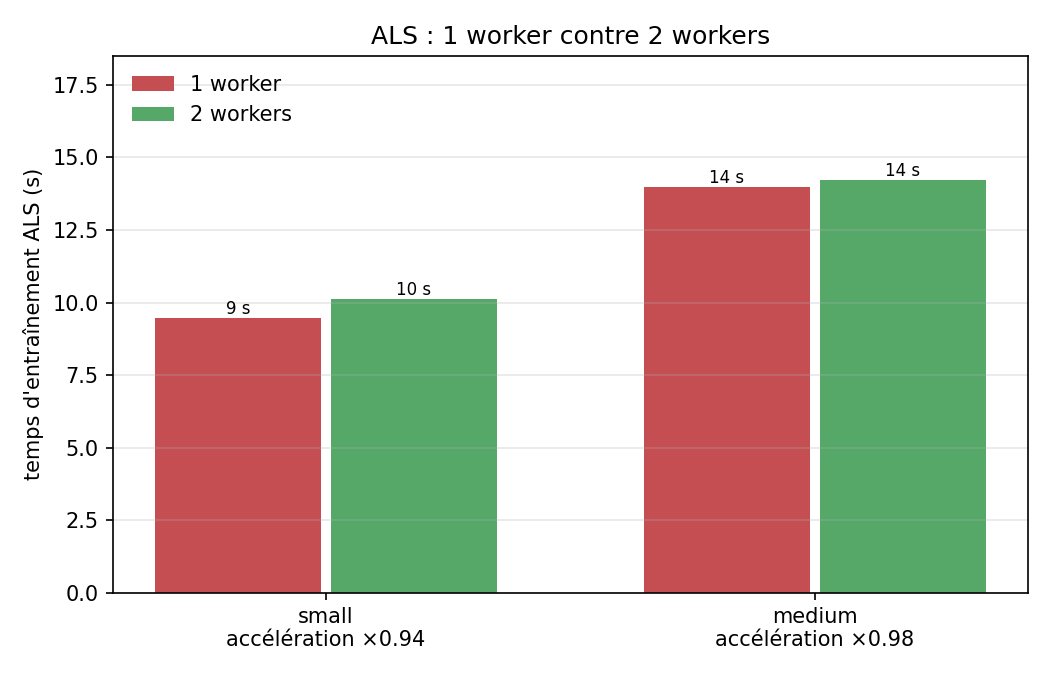
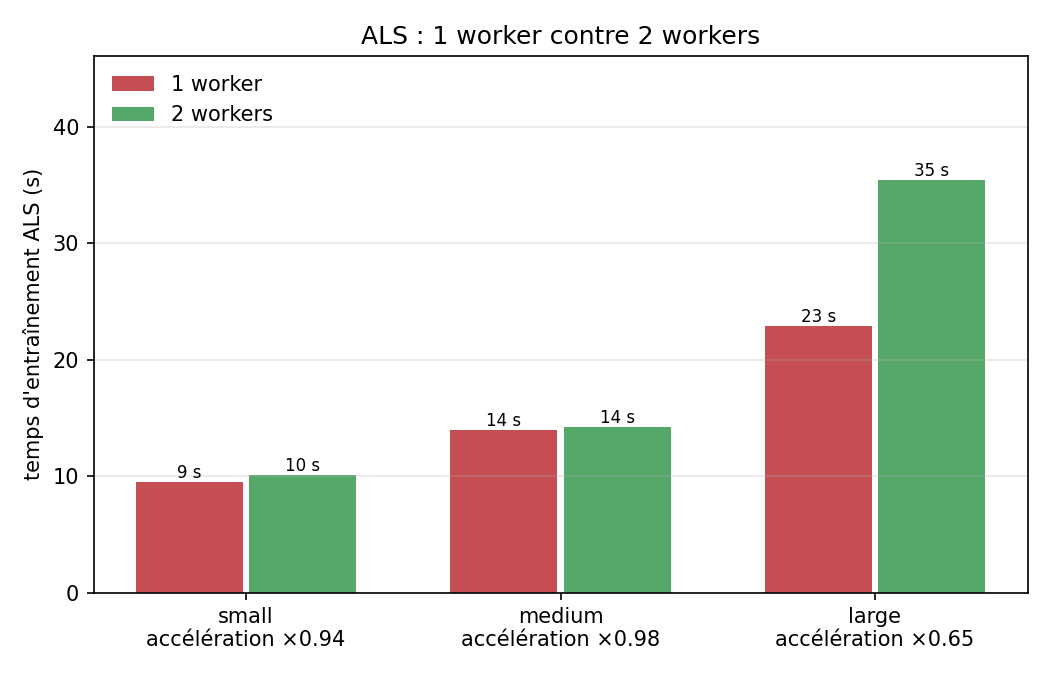
Phase 8 : benchmark large (5 M de notes)

diff --git a/docs/benchmark_resultats.md b/docs/benchmark_resultats.md
@@ -8,28 +8,29 @@ Toutes les valeurs viennent des mesures de `bench/run.sh` ; "-" = non mesuré ou
 |---|---|---|---|
 | small | 177 886 | 100 386 | 6.0 |
 | medium | 1 776 312 | 1 003 312 | 62.9 |
+| large | 8 874 697 | 5 016 697 | 325.6 |
 
 ## 2. Temps d'exécution par étape (secondes)
 
-| Étape | small | medium |
-|---|---|---|
-| Chargement des CSV dans HDFS | 44.6 | 45.3 |
-| Pig 01 : clean_ratings | 561.8 | 576.8 |
-| Pig 02 : clean_reference | 2 248.3 | 2 251.1 |
-| Pig 03 : clean_logs_events | 1 132.8 | 22 674.3 |
-| Pig 04 : transform | 1 980.3 | 1 971.7 |
-| **Pig : total (4 scripts)** | 5 923.2 | 27 473.9 |
-| Hive 01 : tables_csv | 19.8 | 16.3 |
-| Hive 02 : tables_orc_parquet | 98.9 | 72.5 |
-| Hive 03 : features_ml | 54.6 | 62.8 |
-| **Hive : total (3 scripts)** | 173.3 | 151.6 |
+| Étape | small | medium | large |
+|---|---|---|---|
+| Chargement des CSV dans HDFS | 44.6 | 45.3 | 90.9 |
+| Pig 01 : clean_ratings | 561.8 | 576.8 | 626.9 |
+| Pig 02 : clean_reference | 2 248.3 | 2 251.1 | 2 255.9 |
+| Pig 03 : clean_logs_events | 1 132.8 | 22 674.3 | 1 161.2 |
+| Pig 04 : transform | 1 980.3 | 1 971.7 | 2 038.2 |
+| **Pig : total (4 scripts)** | 5 923.2 | 27 473.9 | 6 082.2 |
+| Hive 01 : tables_csv | 19.8 | 16.3 | 8.9 |
+| Hive 02 : tables_orc_parquet | 98.9 | 72.5 | 115.5 |
+| Hive 03 : features_ml | 54.6 | 62.8 | 76.0 |
+| **Hive : total (3 scripts)** | 173.3 | 151.6 | 200.4 |
 
 ### Débit et croissance
 
-| Indicateur | small | medium |
-|---|---|---|
-| Pig : lignes traitées par seconde | 30 | 65 |
-| Hive : lignes traitées par seconde | 1 026 | 11 717 |
+| Indicateur | small | medium | large |
+|---|---|---|---|
+| Pig : lignes traitées par seconde | 30 | 65 | 1 459 |
+| Hive : lignes traitées par seconde | 1 026 | 11 717 | 44 285 |
 
 Croissance entre jeux consécutifs (volume ×V, temps ×T ; T < V signifie que le temps fixe de démarrage des jobs pèse moins quand le volume augmente) :
 
@@ -37,6 +38,8 @@ Croissance entre jeux consécutifs (volume ×V, temps ×T ; T < V signifie que l
 |---|---|---|---|
 | small → medium | Pig | ×10.0 | ×4.6 |
 | small → medium | Hive | ×10.0 | ×0.9 |
+| medium → large | Pig | ×5.0 | ×0.2 |
+| medium → large | Hive | ×5.0 | ×1.3 |
 
 ## 3. Formats de stockage : CSV, ORC, Parquet
 
@@ -46,6 +49,7 @@ Taille sur disque de la table `ratings` (une copie dans HDFS) :
 |---|---|---|---|---|---|
 | small | 3.00 | 0.60 | 0.99 | ×5.0 | ×3.0 |
 | medium | 31.75 | 6.24 | 9.02 | ×5.1 | ×3.5 |
+| large | 164.07 | 32.16 | 45.14 | ×5.1 | ×3.6 |
 
 Temps de requête Hive sur `ratings` (moyenne de plusieurs exécutions, durée de connexion beeline retirée) :
 
@@ -61,6 +65,11 @@ Temps de requête Hive sur `ratings` (moyenne de plusieurs exécutions, durée d
 | medium | parquet | 4.2 | 3.1 |
 | medium | ORC, filtre sur la partition (année) | 1.2 | - |
 | medium | ORC, même filtre sans la partition | 1.8 | - |
+| large | csv | 4.9 | 6.3 |
+| large | orc | 2.9 | 2.2 |
+| large | parquet | 3.1 | 3.7 |
+| large | ORC, filtre sur la partition (année) | 1.5 | - |
+| large | ORC, même filtre sans la partition | 2.9 | - |
 
 ## 4. Spark ALS : 1 worker contre 2 workers
 
@@ -70,6 +79,7 @@ Même demande à chaque exécution (4 cœurs demandés, 2 par exécuteur, 1 Go c
 |---|---|---|---|---|---|---|---|---|
 | small | 79 334 | 9.5 | 10.1 | ×0.94 | 47 % | 0.6615 | 0.6615 | 1 / 2 |
 | medium | 794 971 | 14.0 | 14.2 | ×0.98 | 49 % | 0.6533 | 0.6533 | 1 / 2 |
+| large | 3 973 911 | 22.9 | 35.5 | ×0.65 | 32 % | 0.6439 | 0.6439 | 1 / 2 |
 
 Lecture ORC + mise en cache, et génération du top-5 de tous les utilisateurs :
 
@@ -77,6 +87,7 @@ Lecture ORC + mise en cache, et génération du top-5 de tous les utilisateurs :
 |---|---|---|---|---|
 | small | 21.7 | 19.8 | 6.9 | 12.8 |
 | medium | 18.4 | 23.4 | 10.8 | 13.1 |
+| large | 18.9 | 21.9 | - | - |
 
 ## 5. Cluster ou une seule machine ? Pig contre pandas
 
@@ -86,18 +97,24 @@ Même nettoyage et mêmes transformations que les scripts Pig 01 à 04, avec pan
 |---|---|---|---|---|---|
 | small | 1.3 | 5 923.2 | ×4592 | 152 | identiques |
 | medium | 9.5 | 27 473.9 | ×2886 | 591 | identiques |
+| large | 42.9 | 6 082.2 | ×142 | 2 504 | identiques |
 
 ## 6. Lecture des résultats
 
 - **Pig, small → medium** : le volume est multiplié par 10.0, le temps par 4.6. Le temps croît moins vite que le volume : le coût fixe de démarrage des jobs MapReduce domine encore.
 - **Hive, small → medium** : volume ×10.0, temps ×0.9.
+- **Pig, medium → large** : le volume est multiplié par 5.0, le temps par 0.2. Le temps croît moins vite que le volume : le coût fixe de démarrage des jobs MapReduce domine encore.
+- **Hive, medium → large** : volume ×5.0, temps ×1.3.
 - **small** : pandas traite le même nettoyage 4592 fois plus vite que Pig (1.3 s contre 5923 s). À ce volume une seule machine suffit : le cluster n'apporte pas de gain de vitesse.
 - **ALS, small** : 2 workers donnent une accélération de ×0.94 (efficacité 47 %). Le gain reste limité : les 2 workers partagent les mêmes CPU et le même disque, et les échanges entre exécuteurs coûtent du temps.
 - **Stockage, small** : ORC occupe 5.0 fois moins de place que le CSV, Parquet 3.0 fois moins.
 - **medium** : pandas traite le même nettoyage 2886 fois plus vite que Pig (9.5 s contre 27474 s). À ce volume une seule machine suffit : le cluster n'apporte pas de gain de vitesse.
 - **ALS, medium** : 2 workers donnent une accélération de ×0.98 (efficacité 49 %). Le gain reste limité : les 2 workers partagent les mêmes CPU et le même disque, et les échanges entre exécuteurs coûtent du temps.
 - **Stockage, medium** : ORC occupe 5.1 fois moins de place que le CSV, Parquet 3.5 fois moins.
-- **Limite d'une seule machine (extrapolation linéaire)** : pandas utilise 591 Mo pour 1.0 M de notes ; en extrapolant, 70 % des 8 Go de ce PC seraient atteints vers 12 millions de notes. C'est au-delà de ce seuil, ou quand les données ne tiennent plus sur une machine, que Pig, Hive et Spark deviennent nécessaires. Ordre de grandeur, pas une mesure.
+- **large** : pandas traite le même nettoyage 142 fois plus vite que Pig (42.9 s contre 6082 s). À ce volume une seule machine suffit : le cluster n'apporte pas de gain de vitesse.
+- **ALS, large** : 2 workers donnent une accélération de ×0.65 (efficacité 32 %). Le gain reste limité : les 2 workers partagent les mêmes CPU et le même disque, et les échanges entre exécuteurs coûtent du temps.
+- **Stockage, large** : ORC occupe 5.1 fois moins de place que le CSV, Parquet 3.6 fois moins.
+- **Limite d'une seule machine (extrapolation linéaire)** : pandas utilise 2504 Mo pour 5.0 M de notes ; en extrapolant, 70 % des 8 Go de ce PC seraient atteints vers 12 millions de notes. C'est au-delà de ce seuil, ou quand les données ne tiennent plus sur une machine, que Pig, Hive et Spark deviennent nécessaires. Ordre de grandeur, pas une mesure.
 
 ## 7. Limites de ce benchmark
 
